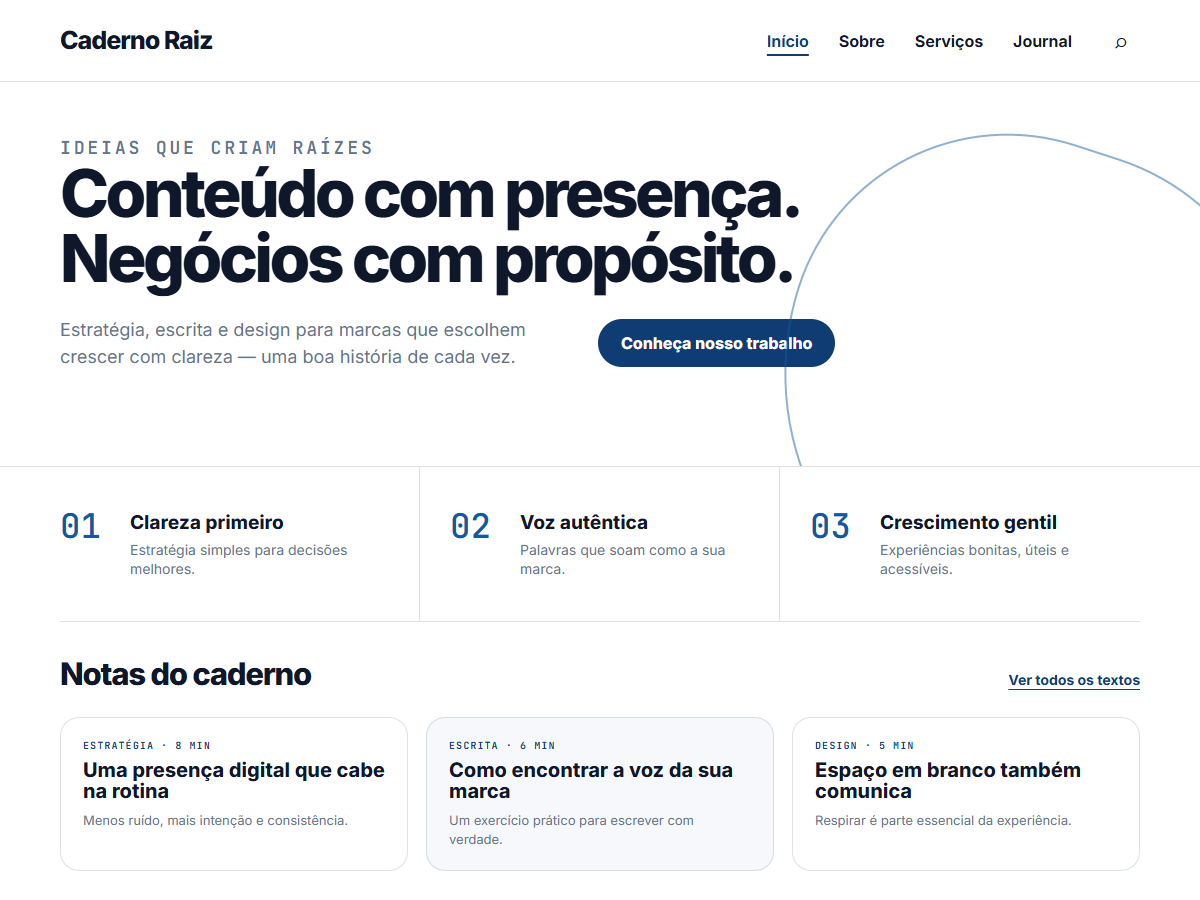
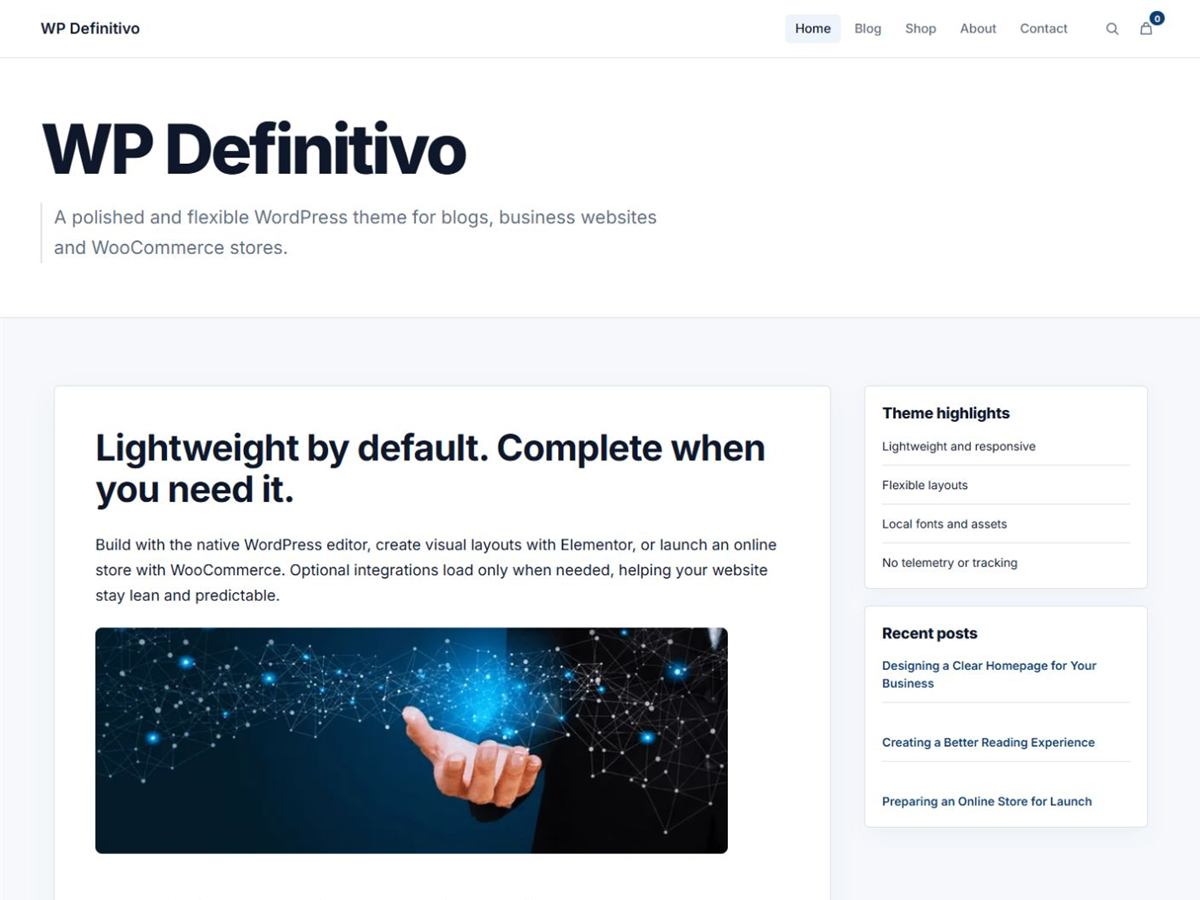
Finalize 1.0.58 submission package

diff --git a/RELEASE-WORKFLOW.md b/RELEASE-WORKFLOW.md
@@ -1,0 +1,33 @@
+# Fluxo oficial de release do WP Definitivo
+
+## Fonte única
+
+Edite o tema somente neste repositório:
+
+`C:\Users\leand\Documents\Codex\2026-08-25\e\work\wp-definitivo-project`
+
+O caminho `C:\Users\leand\Documents\WP Definitivo\theme-source` é apenas uma junção para este mesmo repositório; não é uma cópia.
+
+## Pacote de submissão
+
+Mantenha somente o ZIP vigente em:
+
+`C:\Users\leand\Documents\WP Definitivo\submission`
+
+Os pacotes e as árvores de auditorias anteriores ficam em `C:\Users\leand\Documents\WP Definitivo\artifacts\archive` e não devem ser editados nem submetidos.
+
+## Staging oficial do tema
+
+Use exclusivamente este ambiente para instalar e validar o pacote distribuível:
+
+`C:\Users\leand\Local Sites\staging-tema-defaul`
+
+O ambiente `staging-2` é reservado para testes de integrações. Ele não é fonte do tema e não deve receber sincronizações de release.
+
+## Sequência
+
+1. Edite a fonte única.
+2. Execute `npm run release:check`.
+3. Gere o ZIP em `Documents\WP Definitivo\submission`.
+4. Sincronize e valide somente no `staging-tema-defaul`.
+5. Faça commit e push da mesma fonte aprovada.

diff --git a/AGENTS.md b/AGENTS.md
@@ -1,0 +1,10 @@
+# WP Definitivo release policy
+
+- This repository is the only editable source for the distributable WP Definitivo theme.
+- Edit theme files only under `wp-definitivo/` in this repository.
+- Run `npm run release:check` before producing a package.
+- Keep the current submission ZIP only at `C:\Users\leand\Documents\WP Definitivo\submission`.
+- Use only `C:\Users\leand\Local Sites\staging-tema-defaul` to install and validate the distributable package.
+- Treat `staging-2` as an integration test site only. Never copy theme changes from it and do not synchronize releases to it.
+- Treat `C:\Users\leand\Documents\WP Definitivo\artifacts\archive` as read-only historical material.
+- `C:\Users\leand\Documents\WP Definitivo\theme-source` is a junction to this repository, not another source copy.
